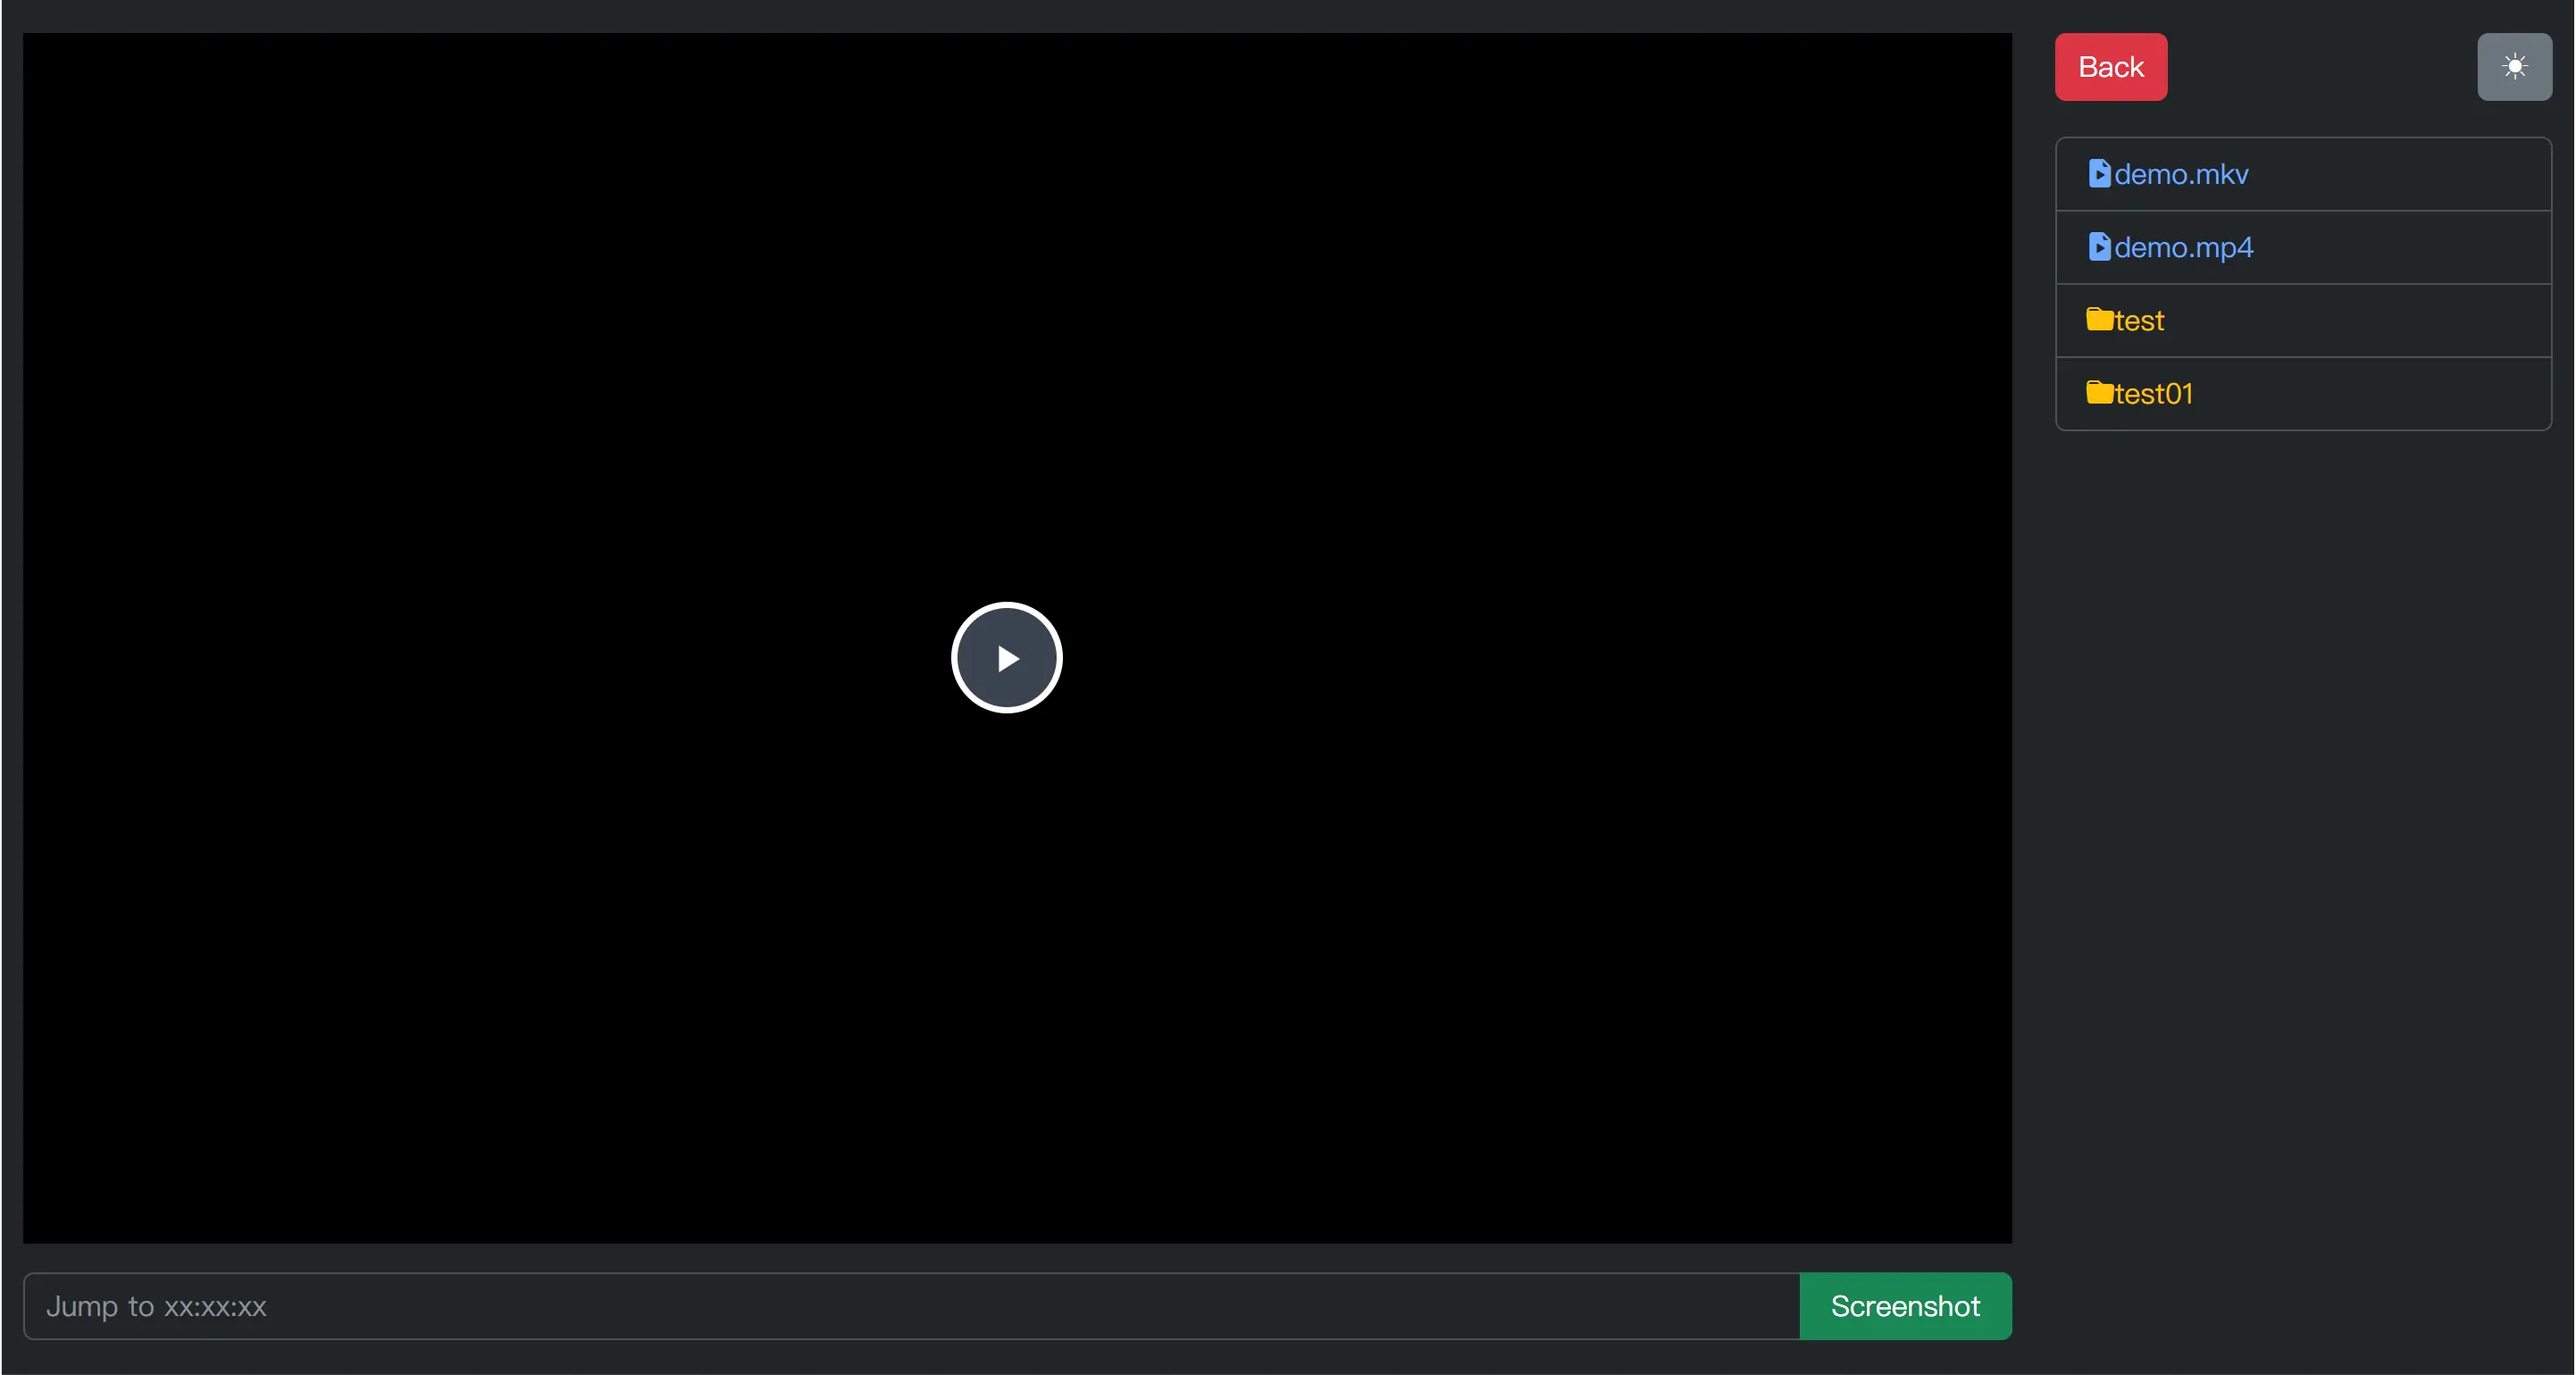
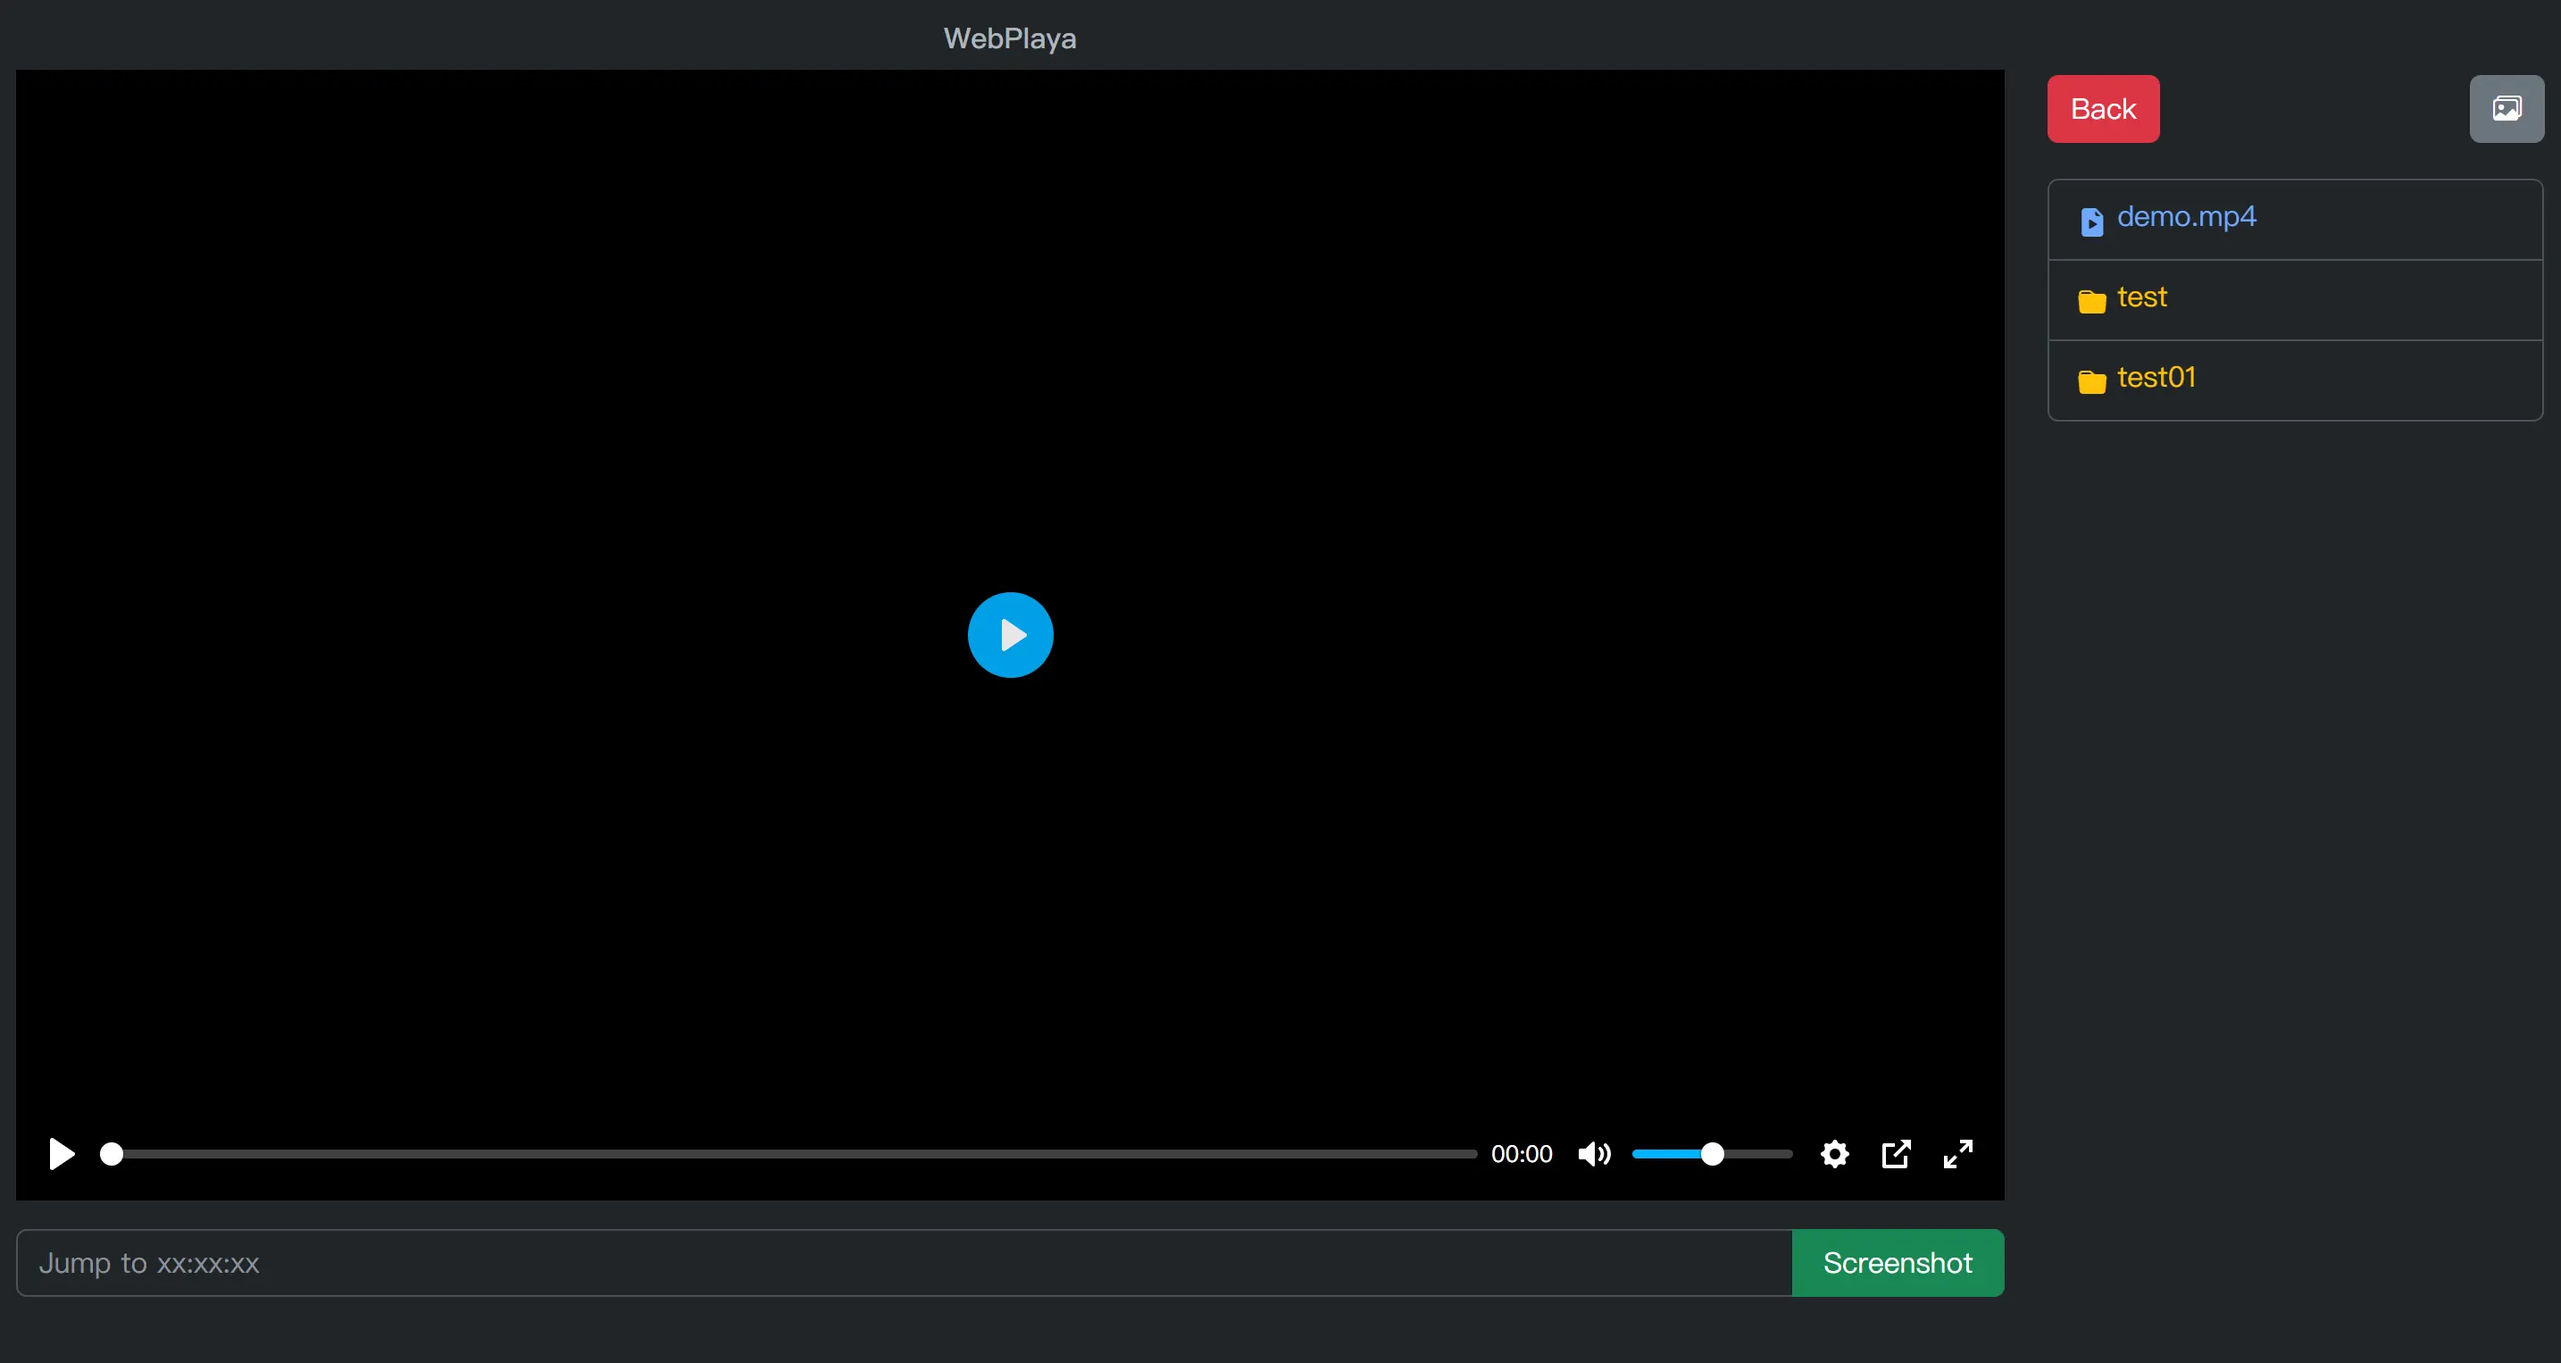
Added automatic thumbnail generation feature.

diff --git a/public/func.js b/public/func.js
@@ -1,26 +1,16 @@
 const videoPlayer = new Plyr('#player');
-const lastWatchedTime = localStorage.getItem('lastWatchedTime');
-if (lastWatchedTime) {
-    videoPlayer.currentTime = lastWatchedTime;
-}
-videoPlayer.on('timeupdate', () => {
-    localStorage.setItem('lastWatchedTime', videoPlayer.currentTime);
-});
-
-const fileList = document.getElementById('fileList');
-let currentPath = '';
 
 document.addEventListener('DOMContentLoaded', () => {
     loadFiles();
 });
 
 const createThumbnail = document.getElementById('generateButton');
+
 createThumbnail.addEventListener('click', () => {
     createThumbnail.innerHTML = '<span class="spinner-border spinner-border-sm" role="status" aria-hidden="true"></span>';
     setTimeout(() => {
         fetch('thumbs').then(r => r.json()).then(data => {
-            console.log(data);
-            if (data.message === 'OK') {
+            if (data.status === 'success') {
                 createThumbnail.classList.remove('btn-secondary');
                 createThumbnail.classList.add('btn-success');
                 createThumbnail.innerHTML = '<i class="bi bi-check-circle-fill"></i>';
@@ -38,6 +28,7 @@ createThumbnail.addEventListener('click', () => {
     }, 500);
 });
 
+//Add the icon before the link.
 const addIconToLink = (link, file) => {
     const icon = document.createElement('i');
     if (file.type === 'directory') {
@@ -48,6 +39,10 @@ const addIconToLink = (link, file) => {
     }
     link.insertBefore(icon, link.firstChild);
 };
+
+const title = document.getElementById('title');
+const fileList = document.getElementById('fileList');
+let currentPath = '';
 const loadFiles = (path = '') => {
     fileList.innerHTML = '';
     currentPath = path;
@@ -56,7 +51,7 @@ const loadFiles = (path = '') => {
             const li = document.createElement('li');
             li.className = 'list-group-item list-group-item-action';
             const a = document.createElement('a');
-            a.href = '#';
+            //a.href = '#';
             a.className = 'icon-link';
             a.textContent = file.name;
             addIconToLink(a, file);
@@ -64,6 +59,7 @@ const loadFiles = (path = '') => {
                 if (file.type === 'directory') {
                     loadFiles(`${path}/${file.name}`);
                 } else {
+                    title.innerHTML = file.name.replace(/\.[^/.]+$/, '');
                     videoPlayer.source = {
                         type: 'video',
                         sources: [
@@ -78,6 +74,13 @@ const loadFiles = (path = '') => {
                             src: `/videos${path}/${file.name}.vtt`,
                         },
                     };
+                    //Automatically jump to the corresponding time if the video has been played before.
+                    const lastWatchedTime = localStorage.getItem(file.name);
+                    if (lastWatchedTime) {
+                        setTimeout(() => {
+                            videoPlayer.forward(parseFloat(lastWatchedTime));
+                        }, 500);
+                    }
                 }
             };
             li.appendChild(a);
@@ -85,6 +88,13 @@ const loadFiles = (path = '') => {
         });
     });
 };
+
+//record the current playback time.
+videoPlayer.on('timeupdate', () => {
+    const fileName = decodeURIComponent(videoPlayer.source.split('/').pop());
+    localStorage.setItem(fileName, videoPlayer.currentTime);
+});
+
 
 const backButton = document.getElementById('backButton');
 backButton.addEventListener('click', () => {
@@ -111,7 +121,13 @@ screenshotButton.addEventListener('click', async () => {
     timeInput.value = '';
 });
 
-const takeScreenshot = async () => {
+timeInput.addEventListener('keydown', event => {
+    if (event.key === 'Enter') {
+        screenshotButton.click();
+    }
+});
+
+async function takeScreenshot() {
     const offscreenCanvas = typeof OffscreenCanvas !== 'undefined' ? new OffscreenCanvas(videoPlayer.media.videoWidth, videoPlayer.media.videoHeight) : document.createElement('canvas');
     const offscreenCtx = offscreenCanvas.getContext('2d');
     offscreenCtx.drawImage(videoPlayer.media, 0, 0, offscreenCanvas.width, offscreenCanvas.height);
@@ -133,15 +149,8 @@ const takeScreenshot = async () => {
         document.body.removeChild(a);
         URL.revokeObjectURL(a.href);
     }, 0);
-};
+}
 
-
-timeInput.addEventListener('keydown', event => {
-    if (event.key === 'Enter') {
-        screenshotButton.click();
-    }
-});
-// Add event listeners to the video player for keyboard shortcuts
 document.addEventListener('keydown', event => {
     if (event.target !== timeInput) {
         switch (event.key) {
@@ -149,17 +158,21 @@ document.addEventListener('keydown', event => {
                 videoPlayer.togglePlay();
                 break;
             case 'ArrowLeft':
-                if (event.shiftKey) {
+                if (event.shiftKey && event.ctrlKey) {
                     videoPlayer.rewind(0.05);
+                } else if (event.shiftKey) {
+                    videoPlayer.rewind(1);
                 } else {
-                    videoPlayer.rewind(5);
+                    videoPlayer.rewind(10);
                 }
                 break;
             case 'ArrowRight':
-                if (event.shiftKey) {
+                if (event.shiftKey && event.ctrlKey) {
                     videoPlayer.forward(0.05);
+                } else if (event.shiftKey) {
+                    videoPlayer.forward(1);
                 } else {
-                    videoPlayer.forward(5);
+                    videoPlayer.forward(10);
                 }
                 break;
             case 'ArrowUp':

diff --git a/index.js b/index.js
@@ -70,65 +70,14 @@ app.listen(PORT, () => {
 
 app.get('/thumbs', (req, res) => {
     if (watchVideos()) {
-        res.send('OK');
+        res.json({status: 'success'});
     } else {
-        res.send('Error');
+        res.status(500).json({error: 'An error occurred'});
     }
 });
 
-/*app.get('/thumbs', async (req, res) => {
-    try {
-        const result = await watchVideos();
-        res.send('OK');
-    } catch (error) {
-        res.send('Error');
-    }
-});*/
-
-
-/*async function watchVideos() {
-    const watcher = chokidar.watch('/app/public/videos', {ignored: /(^|[\/\\])\../, persistent: true});
-    watcher.on('add', async (filePath) => {
-        if (filePath.endsWith('.mkv') || filePath.endsWith('.mp4') || filePath.endsWith('.webm') || filePath.endsWith('.avi')) {
-            console.log('Watching ' + filePath);
-            try {
-                ffmpeg.ffprobe(filePath, async function (err, metadata) {
-                    if (err) {
-                        console.error(err);
-                        return false;
-                    }
-                    const duration = metadata.format.duration;
-                    await generateVttFile(filePath, duration);
-                });
-            } catch (err) {
-                console.error(err);
-                return false;
-            }
-        }
-        return true;
-    });
-    watcher.on('unlink', async (filePath) => {
-        if (filePath.endsWith('.mkv') || filePath.endsWith('.mp4') || filePath.endsWith('.webm') || filePath.endsWith('.avi')) {
-            console.log(filePath + 'Was deleted');
-            try {
-                await fs.promises.unlink(filePath + '.vtt');
-                for (let i = 1; i <= 10; i++) {
-                    const filename = `${filePath}-${i.toString().padStart(2, '0')}.jpg`;
-                    await fs.promises.unlink(filename);
-                    console.log(`${filename} was deleted`);
-                }
-            } catch (err) {
-                console.error(err);
-                return false;
-            }
-            await watcher.unwatch(filePath);
-        }
-        return true;
-    });
-    return true;
-}*/
-
-
+/*Monitor changes in the folder and automatically call the generateVttFile() function to generate a thumbnail if a new video file is detected.
+If the corresponding video file is deleted, automatically clean up the corresponding .vtt and thumbnail files.*/
 function watchVideos() {
     const watcher = chokidar.watch('/app/public/videos', {ignored: /(^|[\/\\])\../, persistent: true});
     watcher.on('add', (filePath) => {
@@ -140,24 +89,27 @@ function watchVideos() {
                     return false;
                 }
                 const duration = metadata.format.duration;
-                generateVttFile(filePath, duration);
+                generateVttFile(filePath, duration).then(() => {
+                    return true;
+                });
             });
         }
-        return true;
     });
     watcher.on('unlink', (filePath) => {
         if (filePath.endsWith('.mkv') || filePath.endsWith('.mp4') || filePath.endsWith('.webm') || filePath.endsWith('.avi')) {
             console.log(filePath + 'Was deleted');
             fs.unlinkSync(filePath + '.vtt');
-            for (let i = 1; i <= 10; i++) {
+            for (let i = 1; i <= 99; i++) {
                 const filename = `${filePath}-${i.toString().padStart(2, '0')}.jpg`;
                 fs.unlink(filename, (err) => {
-                    if (err) throw err;
+                    if (err) return;
                     console.log(`${filename} was deleted`);
                 });
             }
         }
-        return true;
+    });
+    watcher.on('ready', () => {
+        console.log('\x1b[32m%s\x1b[0m', 'Initial scan complete. Ready for changes.');
     });
     return true;
 }
@@ -210,7 +162,7 @@ async function generateVttFile(filename, duration) {
             ffmpeg.stderr.on('data', (data) => {
                 console.log(`stderr: ${data}`);
             });
-            ffmpeg.on('close', (code) => {
+            ffmpeg.on('close', () => {
                 console.log('\x1b[32m%s\x1b[0m', `${filename} thumbnail generation successes`);
             });
         });

diff --git a/public/index.html b/public/index.html
@@ -40,7 +40,7 @@
     <meta charset="UTF-8">
     <meta content="width=device-width, initial-scale=1" name="viewport">
     <title>WebPlaya</title>
-    <link href="https://cdn.jsdelivr.net/npm/bootstrap@5.3.0-alpha1/dist/css/bootstrap.min.css" rel="stylesheet">
+    <link href="https://cdn.jsdelivr.net/npm/bootstrap@5.3.0/dist/css/bootstrap.min.css" rel="stylesheet">
     <link href="https://cdn.jsdelivr.net/npm/bootstrap-icons@1.10.5/font/bootstrap-icons.css" rel="stylesheet">
     <link href="https://cdn.plyr.io/3.7.8/plyr.css" rel="stylesheet"/>
     <link rel="shortcut icon" type="image/x-icon" href="fav.png">
@@ -49,18 +49,19 @@
 <div class="container-fluid">
     <div class="row">
         <div class="col-left">
-            <div style="margin-top: 20px;"></div>
-            <video controls id="player" playsinline></video>
+            <div style="margin-top: 15px;"></div>
+            <h6 class="text-center" id="title">WebPlaya</h6>
+            <video controls id="player"></video>
             <div class="input-group mt-3" style="display: flex; align-items: center;">
-                <label for="timeInput"></label><input class="form-control" id="timeInput" placeholder="Jump to xx:xx:xx"
-                                                      type="text">
+                <input class="form-control" id="timeInput" placeholder="Jump to xx:xx:xx"
+                       type="text"><label for="timeInput"></label>
                 <button id="screenshotButton" class="btn btn-success"
                         style="flex-basis: auto; flex-grow: 0.01; flex-shrink: 1;">Screenshot
                 </button>
             </div>
         </div>
         <div class="col-right">
-            <div style="margin-top: 20px;"></div>
+            <div style="margin-top: 45px;"></div>
             <div class="button-container" style="display: flex; justify-content: space-between;">
                 <button id="backButton" class="btn btn-danger">Back</button>
                 <button class="btn btn-secondary"

diff --git a/README.md b/README.md
@@ -52,8 +52,9 @@ docker build . -t webplaya:latest
 ### Keyboard shortcuts.
 
 - Play or Pause : Space key
-- Fast-forward or rewind 1s :  ➡ or ⬅
-- Fast-forward or rewind 1/10s : Shift + ➡ or ⬅
+- Fast-forward or Fast-rewind 10s :  ➡ or ⬅
+- Forward or rewind 1s : Shift + ➡ or ⬅
+- Forward or rewind 1/50s : Shift + Ctrl + ➡ or ⬅
 - Volume : ⬆ or ⬇
 - Mute audio :  M key
 - Fullscreen : F key
@@ -68,4 +69,4 @@ The generated screenshot file name is "video name _ screenshot time(convert in s
 ## Credits
 
 - [Bootstrap](https://github.com/twbs/bootstrap)
-- [Video.js](https://github.com/videojs/video.js)
+- [plyr](https://github.com/sampotts/plyr)
